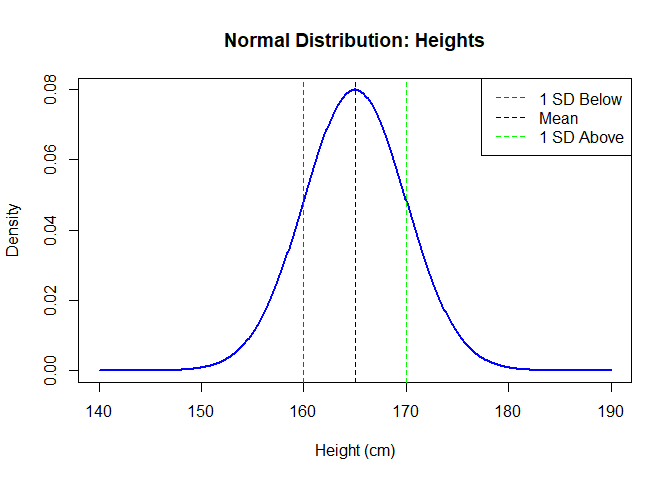
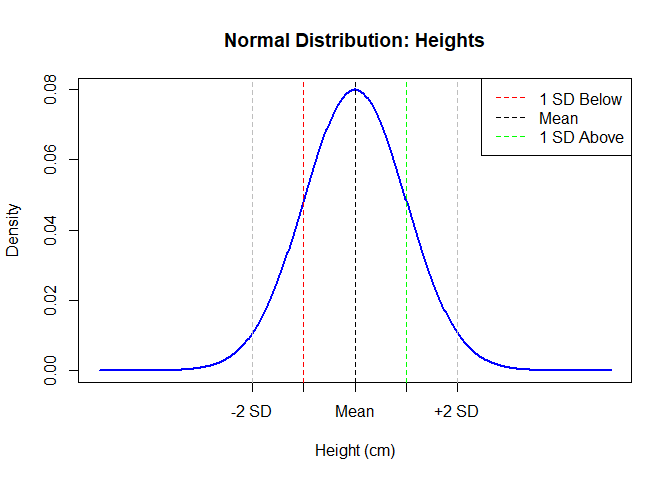
ND updated

diff --git a/chapters/Probability-Distribution/Normal-Distribution.md b/chapters/Probability-Distribution/Normal-Distribution.md
@@ -98,6 +98,12 @@ This is very helpful for quickly estimating spread.
 
 ![](Normal-Distribution_files/figure-markdown_strict/unnamed-chunk-2-1.png)
 
+![](Normal-Distribution_files/figure-markdown_strict/unnamed-chunk-3-1.png)
+
+![](Normal-Distribution_files/figure-markdown_strict/unnamed-chunk-4-1.png)
+
+------------------------------------------------------------------------
+
 ### What Does “Normal Distribution” Mean?
 
 -   It represents the **ideal pattern** for naturally varying data
@@ -106,11 +112,7 @@ This is very helpful for quickly estimating spread.
     real-world behavior
 
 -   It serves as the **foundation for many statistical techniques**
-    (like t-tests, confidence intervals, and regression) \`\`\`
-
-![](Normal-Distribution_files/figure-markdown_strict/unnamed-chunk-3-1.png)
-
-![](Normal-Distribution_files/figure-markdown_strict/unnamed-chunk-4-1.png)
+    (like t-tests, confidence intervals, and regression)
 
 ------------------------------------------------------------------------
 
